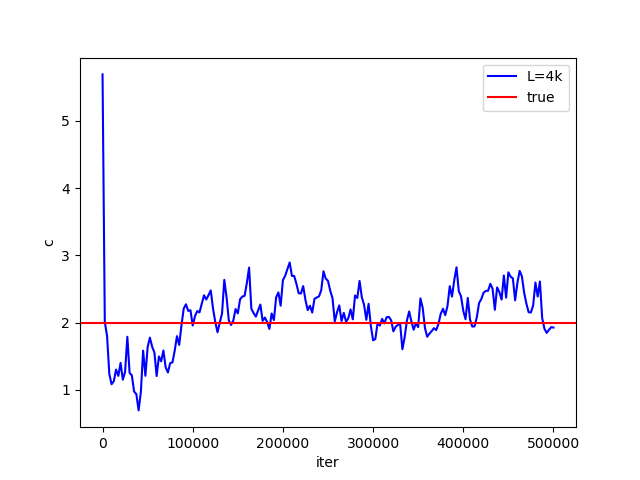
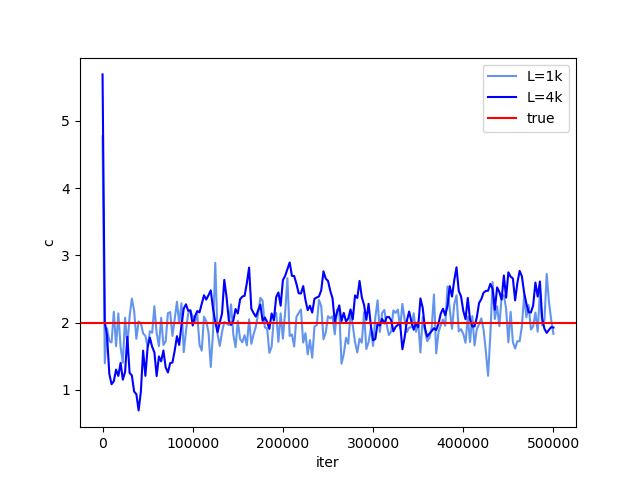
all_rand11 outputs?

Changed region(s): [[0.1562, 0.5625, 0.875, 0.7812], [0.75, 0.1562, 0.875, 0.2812]]

diff --git a/PosteriorInference_Varying_L.py b/PosteriorInference_Varying_L.py
@@ -109,8 +109,8 @@ save_every = 2500  # save output every save_every iterations. Must be multiple o
 # # end1 = time.time()
 # # print('minutes to produce the sample (chain 1 rand init): ', round((end1 - start1) / 60, 2))
 #
-# with open('data_outputs/output1_all_rand10.pickle', 'rb') as f:
-#     output1 = pickle.load(f)
+with open('data_outputs/output1_all_rand10.pickle', 'rb') as f:
+    output1 = pickle.load(f)
 #
 # # plt.figure()
 # # w_est = output1[0]
@@ -635,7 +635,7 @@ plt.close()
 # plt.close()
 #
 plt.figure()
-# plt.plot([i for i in range(0, iter+save_every, save_every)], output1[3], color='cornflowerblue', label='L=1k')
+plt.plot([i for i in range(0, iter+save_every, save_every)], output1[3], color='cornflowerblue', label='L=1k')
 plt.plot([i for i in range(0, iter+save_every, save_every)], output2[3], color='blue', label='L=4k')
 # plt.plot([i for i in range(0, iter+save_every, save_every)], output3[3], color='blue', label='L=4k')
 # # plt.plot([i for i in range(0, iter+save_every, save_every)], output4[3], color='navy', label='L=7k')
@@ -647,7 +647,7 @@ plt.savefig('images/all_rand10/sigma2')
 plt.close()
 #
 plt.figure()
-# plt.plot([i for i in range(0, iter+save_every, save_every)], output1[4], color='cornflowerblue', label='L=1k')
+plt.plot([i for i in range(0, iter+save_every, save_every)], output1[4], color='cornflowerblue', label='L=1k')
 plt.plot([i for i in range(0, iter+save_every, save_every)], output2[4], color='blue', label='L=4k')
 # plt.plot([i for i in range(0, iter+save_every, save_every)], output3[4], color='navy', label='L=4k')
 # # plt.plot([i for i in range(0, iter+save_every, save_every)], output4[4], color='blue', label='L=7k')
@@ -659,7 +659,7 @@ plt.savefig('images/all_rand10/c2')
 plt.close()
 #
 plt.figure()
-# plt.plot([i for i in range(0, iter+save_every, save_every)], output1[5], color='cornflowerblue', label='L=1k')
+plt.plot([i for i in range(0, iter+save_every, save_every)], output1[5], color='cornflowerblue', label='L=1k')
 plt.plot([i for i in range(0, iter+save_every, save_every)], output2[4], color='blue', label='L=4k')
 # plt.plot([i for i in range(0, iter+save_every, save_every)], output3[5], color='navy', label='L=5k')
 # # plt.plot([i for i in range(0, iter+save_every, save_every)], output4[4], color='blue', label='L=10k')
